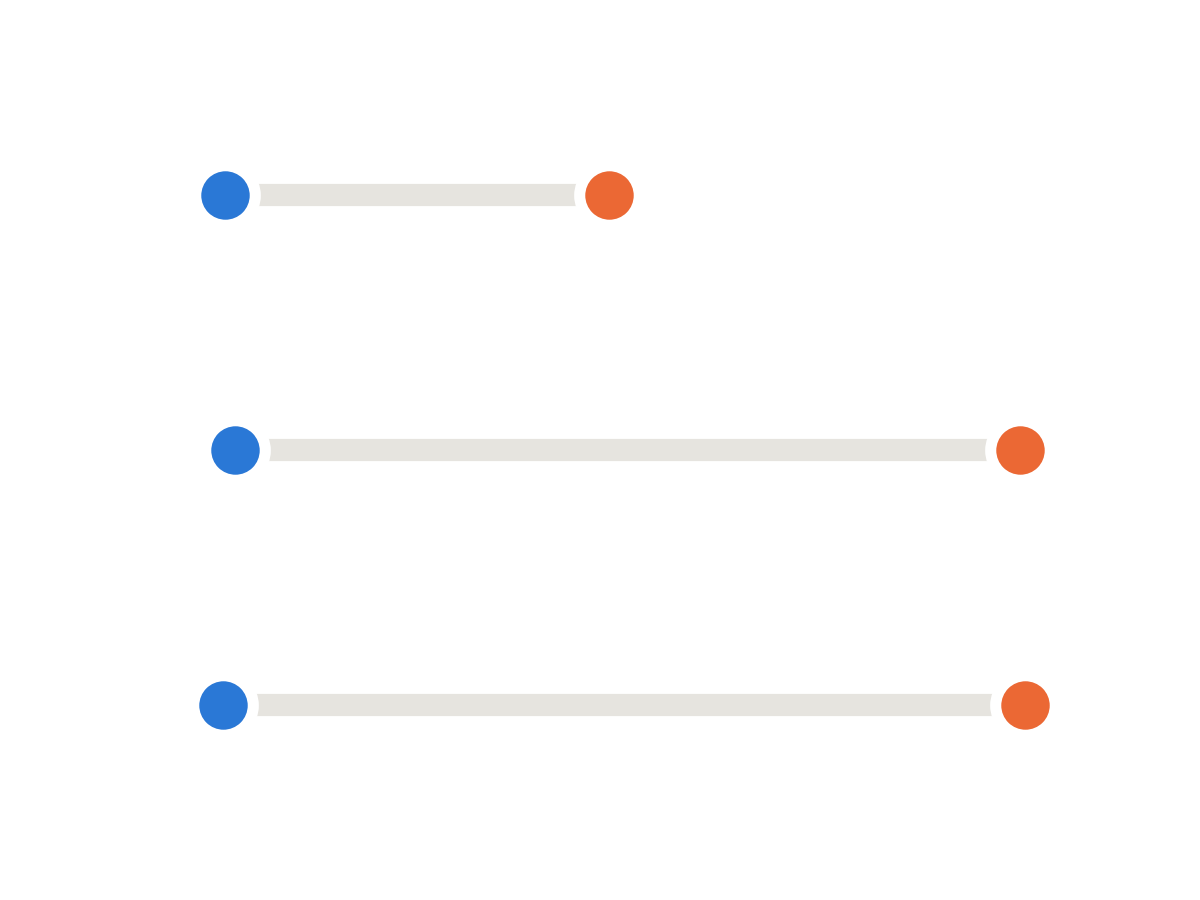
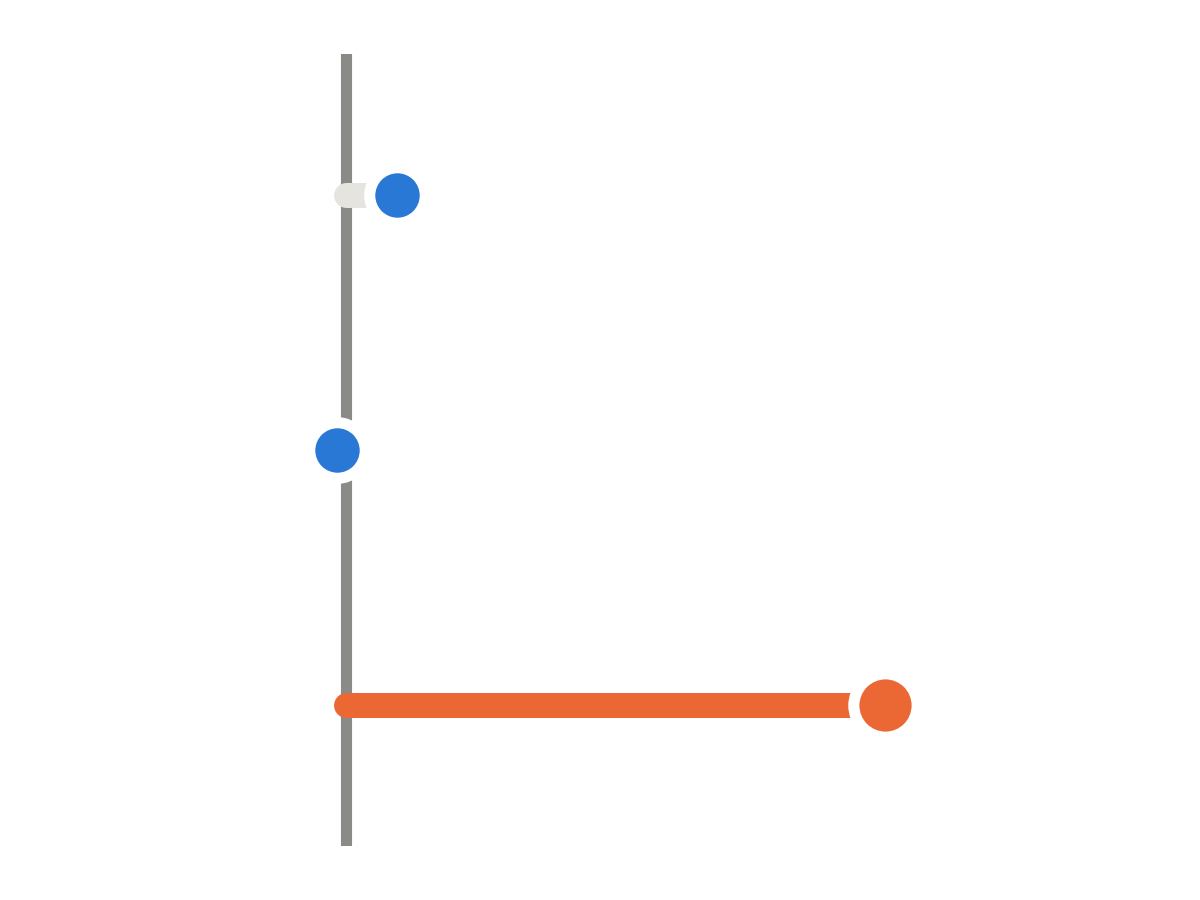
EnhancerDiff thumbnail: use the report's independence gap, not raw oracle scores
The previous version put the raw target-oracle score (0.24-0.46) beside the raw
independent-oracle score (0.031-0.037). Those are Malinois activity and Enformer
DNase, two different scales, so the comparison was meaningless and made transfer
look far worse than the report finds.

The report's actual measure is the independence gap, target percentile minus
independent percentile, where lower is better and zero means the design
transfers. K562 (+0.021) and HepG2 (-0.004) sit within noise of zero; SK-N-SH
(+0.217) is where the model games its target oracle. That is the figure the
report itself carries.

Changed region(s): [[0.1542, 0.0622, 0.8942, 0.9333]]

diff --git a/index.html b/index.html
@@ -499,7 +499,7 @@
 
     <div class="pub">
       <div class="pub-figure">
-        <img src="papers/figures/sw_enhancerdiff.png" alt="Mean guiding-oracle score versus independent-oracle score for each cell type, showing the transfer gap">
+        <img src="papers/figures/sw_enhancerdiff.png" alt="Independence gap by cell type against a zero reference; K562 and HepG2 sit near zero, SK-N-SH does not">
       </div>
       <div class="pub-content">
         <div class="pub-title">EnhancerDiff</div>

diff --git a/tools/make_thumbnails.py b/tools/make_thumbnails.py
@@ -106,27 +106,35 @@ def protdiff():
 
 # --------------------------------------------------------------- EnhancerDiff
 def enhancerdiff():
-    """Guiding-oracle score vs independent-oracle score, per cell type.
+    """Independence gap by cell type, against a zero reference.
 
-    The repo's own evaluation is the point: designs score well on the oracle
-    that steered them and roughly ten times lower on the independent one, with
-    29-40%% transferring at the 0.9 threshold. An earlier version plotted GC
-    content, which said nothing about whether the designs hold up.
+    The gap is target percentile minus independent percentile: the report's
+    oracle-hacking signal, where lower is better and zero means the design
+    transfers. K562 (+0.021) and HepG2 (-0.004) sit within noise of zero;
+    SK-N-SH (+0.217) is where the model games its target oracle.
+
+    Two earlier versions of this thumbnail were wrong: GC content said nothing
+    about transfer, and raw target-vs-independent scores compared two oracles on
+    incompatible scales, which made transfer look far worse than it is.
     """
-    rows = []
+    gaps = []
     for ct in (0, 1, 2):
         e = json.loads(fetch("enhancerdiff", f"results/eval_ct{ct}.json"))
-        rows.append((e["independent_oracle_score"]["mean"],
-                     e["target_oracle_score"]["mean"]))
-    print(f"    independent vs target: {[(round(i,3), round(t,3)) for i, t in rows]}")
+        gaps.append(e["independence"]["mean_gap"])
+    print(f"    independence gaps: {[round(x, 4) for x in gaps]}")
 
     f, ax = fig()
-    for i, (ind, tgt) in enumerate(rows):
-        ax.plot([ind, tgt], [-i, -i], color=FAINT, lw=8, solid_capstyle="round", zorder=1)
-        ax.scatter([tgt], [-i], s=460, color=ORANGE, zorder=3, edgecolor=SURFACE, lw=4)
-        ax.scatter([ind], [-i], s=460, color=BLUE, zorder=3, edgecolor=SURFACE, lw=4)
-    ax.set_xlim(-0.05, max(t for _, t in rows) * 1.12)
-    ax.set_ylim(-len(rows) + 0.45, 0.55)
+    lim = max(abs(min(gaps)), max(gaps)) * 1.45
+    ax.axvline(0, color=MUTED, lw=4, zorder=1)
+    for i, gp in enumerate(gaps):
+        hot = gp > 0.1                       # clearly away from zero
+        ax.plot([0, gp], [-i, -i], color=ORANGE if hot else FAINT, lw=9,
+                solid_capstyle="round", zorder=2)
+        ax.scatter([gp], [-i], s=520 if hot else 400,
+                   color=ORANGE if hot else BLUE, zorder=3,
+                   edgecolor=SURFACE, lw=4)
+    ax.set_xlim(-lim * 0.35, lim)
+    ax.set_ylim(-len(gaps) + 0.45, 0.55)
     save(f, "sw_enhancerdiff")
 
 
